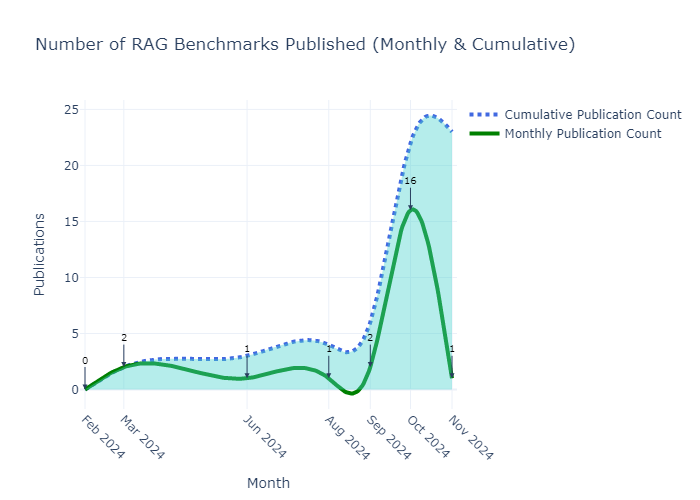
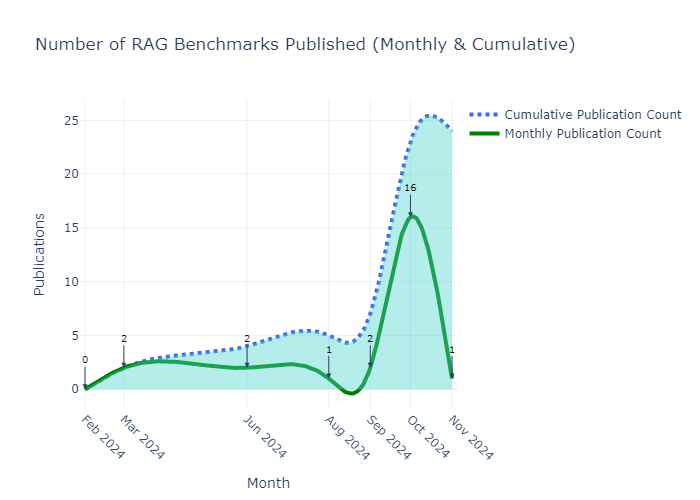
New Paper Added

diff --git a/generate_line_plot.py b/generate_line_plot.py
@@ -10,69 +10,52 @@ from scipy.interpolate import CubicSpline
 with open('RAG-LIST.md', 'r', encoding='utf-8') as file:
     content = file.read()
 
-# Regex to extract publication dates (Assuming format "Published Date: DD MMM YYYY")
 date_pattern = r"Published Date: (\d{1,2})\s([A-Za-z]+)\s(\d{4})"
 dates = re.findall(date_pattern, content)
 
-# Convert the extracted dates to a pandas DataFrame
 date_objects = [datetime.strptime(f"{day} {month} {year}", "%d %b %Y") for day, month, year in dates]
 df = pd.DataFrame(date_objects, columns=['Publication Date'])
 
-# Extract Month and Year
-df['Month'] = df['Publication Date'].dt.strftime('%b')  # Month abbreviation
+df['Month'] = df['Publication Date'].dt.strftime('%b')  
 df['Year'] = df['Publication Date'].dt.year  # Year
 
-# Group by Month and Year, count the publications for each month
 monthly_counts = df.groupby(['Month', 'Year']).size().reset_index(name='Count')
 
-# Reorder months correctly (Jan, Feb, ..., Dec)
 month_order = ['Jan', 'Feb', 'Mar', 'Apr', 'May', 'Jun', 'Jul', 'Aug', 'Sep', 'Oct', 'Nov', 'Dec']
 monthly_counts['Month'] = pd.Categorical(monthly_counts['Month'], categories=month_order, ordered=True)
 
 # Sort by Month and Year
 monthly_counts = monthly_counts.sort_values(by=['Year', 'Month'])
 
-# Convert data into the format you want
 data = {
     'Month': monthly_counts['Month'].tolist(),
     'Year': monthly_counts['Year'].tolist(),
     'Count': monthly_counts['Count'].tolist(),
 }
 
-
-# Create a DataFrame
 df = pd.DataFrame(data)
 
 # Mapping month names to numbers
 month_map = {'Jan': 1, 'Feb': 2, 'Mar': 3, 'Apr': 4, 'May': 5, 'Jun': 6, 'Jul': 7, 'Aug': 8, 'Sep': 9, 'Oct': 10, 'Nov': 11, 'Dec': 12}
 
-# Convert month names to their corresponding numerical values
 df['Month'] = df['Month'].map(month_map)
 
-# Create the Date column
 df['Date'] = pd.to_datetime(df[['Year', 'Month']].assign(DAY=1))
 
-# Add a previous row for the "0" count to start from February (1st)
 df_with_zero = pd.DataFrame({'Month': [2], 'Year': [2024], 'Count': [0]})
 
-# Convert the February row to datetime format
 df_with_zero['Date'] = pd.to_datetime(df_with_zero[['Year', 'Month']].assign(DAY=1))
 
-# Append this row to the original DataFrame
 df = pd.concat([df_with_zero, df], ignore_index=True)
 
-# Sort by Date to make sure it's in correct chronological order
 df = df.sort_values(by='Date')
 
-# Calculate cumulative sum for the publication count
 df['Cumulative Count'] = df['Count'].cumsum()
 
-# Create a cubic spline interpolation for smoother line
-x = pd.to_numeric(df['Date'])  # Convert dates to numeric values for interpolation
-y_cumulative = df['Cumulative Count']  # Cumulative count as y-values
-y_monthly = df['Count']  # Monthly count as y-values
+x = pd.to_numeric(df['Date']) 
+y_cumulative = df['Cumulative Count']  
+y_monthly = df['Count']  
 
-# Interpolate using CubicSpline for smooth curves (ensure passing through data points)
 cs_cumulative = CubicSpline(x, y_cumulative, bc_type='natural')
 cs_monthly = CubicSpline(x, y_monthly, bc_type='natural')
 
@@ -82,24 +65,21 @@ x_smooth_num = pd.to_numeric(x_smooth)
 y_smooth_cumulative = cs_cumulative(x_smooth_num)
 y_smooth_monthly = cs_monthly(x_smooth_num)
 
-# Plotly interactive line plot (raw counts per month)
 fig = go.Figure()
 
-# Add the line trace for cumulative count (smooth curve)
 fig.add_trace(go.Scatter(
     x=x_smooth,
     y=y_smooth_cumulative,
     mode='lines',
-    line=dict(color='royalblue', width=4, dash='dot'),  # Smooth blue line for cumulative
+    line=dict(color='royalblue', width=4, dash='dot'), 
     name="Cumulative Publication Count"
 ))
 
-# Add the line trace for monthly publication count (smooth curve)
 fig.add_trace(go.Scatter(
     x=x_smooth,
     y=y_smooth_monthly,
     mode='lines',
-    line=dict(color='green', width=4, dash='solid'),  # Smooth green line for monthly counts
+    line=dict(color='green', width=4, dash='solid'), 
     name="Monthly Publication Count"
 ))
 
@@ -108,7 +88,7 @@ fig.add_trace(go.Scatter(
     x=x_smooth,
     y=y_smooth_cumulative,
     fill='tozeroy',
-    fillcolor='rgba(72, 209, 204, 0.4)',  # Light teal for shaded area
+    fillcolor='rgba(72, 209, 204, 0.4)', 
     line=dict(color='rgba(255,255,255,0)'),
     showlegend=False
 ))
@@ -141,8 +121,5 @@ fig.update_layout(
     showlegend=True,
     autosize=True
 )
-# Save the plot as an image in the assets folder
-fig.write_image("assets/publication_daywise_line_plot.png")
 
-# Show the plot
-fig.show()
+fig.write_image("assets/publication_daywise_line_plot.png")

diff --git a/RAG-LIST.md b/RAG-LIST.md
@@ -297,3 +297,13 @@ CORAG introduces a novel cost-constrained retrieval optimization system to addre
 💻 Code: [Github Repository](https://github.com/XXXX)
 
 ---
+
+## [25] **Multi-Head RAG (MRAG)**
+
+*Published Date: 7 Jun 2024*
+
+<sub><i style="font-size: 1.3em; color: gray;">Authors: Maciej Besta, Ales Kubicek, Roman Niggli, Robert Gerstenberger, Lucas Weitzendorf, Mingyuan Chi, Patrick Iff, Joanna Gajda, Piotr Nyczyk, Jürgen Müller, Hubert Niewiadomski, Marcin Chrapek, Michał Podstawski, Torsten Hoefler</i></sub>
+
+Multi-Head RAG (MRAG) addresses the challenge of handling multi-aspect queries in Retrieval Augmented Generation by leveraging the multi-head attention layer in Transformers. Unlike standard RAG, which may struggle with retrieving documents that have diverse content, MRAG uses attention heads to capture various data aspects. This approach enables MRAG to fetch multi-aspect documents with greater accuracy, showing up to a 20% improvement in relevance over traditional RAG methods. MRAG is seamlessly compatible with existing RAG frameworks, benchmarking tools like RAGAS, and various data stores.
+
+📄 Paper: [Multi-Head RAG (MRAG)](https://arxiv.org/abs/2406.05085) || 💻 Code: [GitHub Repository](https://github.com/spcl/MRAG)
